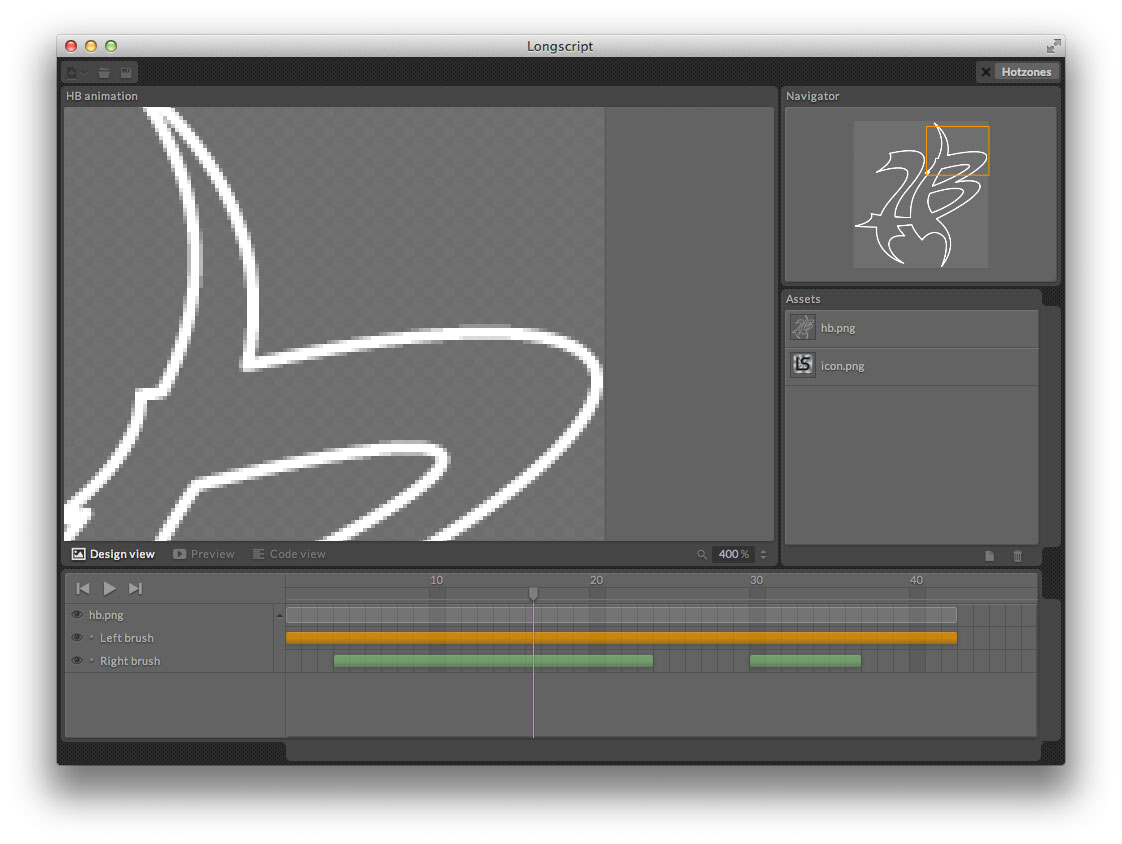
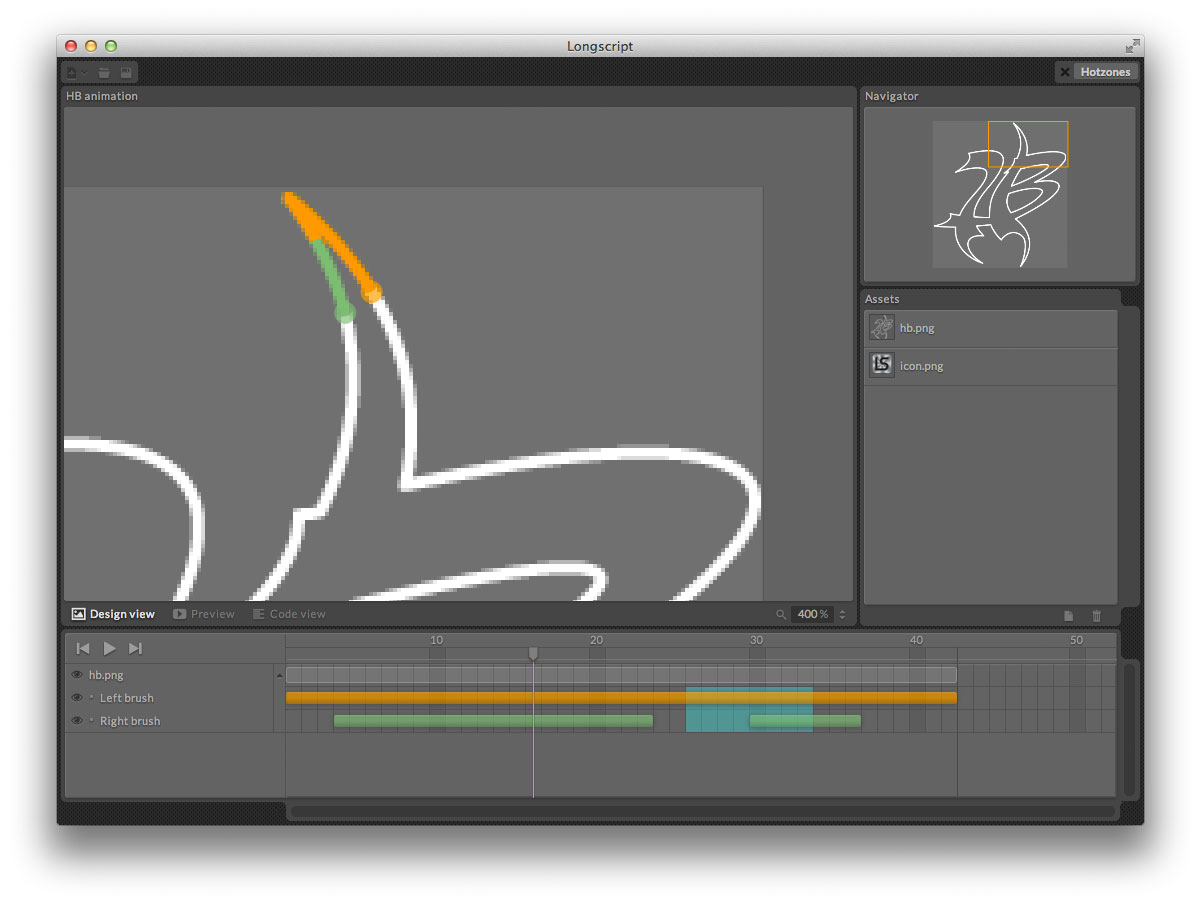
timeline frame selector

Changed region(s): [[0.0312, 0.0308, 0.967, 0.9242]]

diff --git a/public/res/js/app/timeline.js b/public/res/js/app/timeline.js
@@ -15,6 +15,8 @@ sys.app.timeline = {
 		this.doEvent('populate_frame_nrs');
 		//this.speed_events('focus');
 
+		jr(el.tl_content.parentNode).bind('mousedown', this.doEvent);
+
 		jr('.right .body', el.box_timeline).bind('scroll', this.doEvent);
 	},
 	doEvent: function(event) {
@@ -27,7 +29,10 @@ sys.app.timeline = {
 			file = _app.file,
 			self = _app.timeline,
 			cmd  = (typeof(event) === 'string') ? event : event.type,
+			mouseState = self.mouseState,
+			dim,
 			row,
+			srcEl,
 			target,
 			track,
 			i, il,
@@ -35,6 +40,83 @@ sys.app.timeline = {
 			k, kl;
 		switch (cmd) {
 			// native events
+			case 'mousedown':
+				srcEl = event.target;
+				target = _jr(srcEl);
+				dim = getDim(_el.tl_content.parentNode);
+
+				if (target.hasClass('track_parent')) {
+					// track parent
+					self.mouseState = {
+						type: 'ptrack'
+					};
+				} else if (target.hasClass('anim_track')) {
+					// anim track
+					self.mouseState = {
+						type: 'track'
+					};
+				} else if (srcEl.nodeName.toLowerCase() === 'li') {
+					// track row
+					self.mouseState = {
+						type: 'row',
+						clickX: event.clientX,
+						clickY: event.clientY,
+						startX: event.clientX - dim.l,
+						startY: event.clientY - dim.t
+					};
+				} else {
+					// body
+					self.mouseState = {
+						type: 'body'
+					};
+				}
+				if (self.mouseState.type) {
+					self.mouseState.dim = dim;
+					self.mouseState.selEl = _jr(_el.frame_select);
+					_jr(document).bind('mousemove mouseup', self.doEvent);
+				}
+				break;
+			case 'mousemove':
+				if (!mouseState) return;
+				switch (mouseState.type) {
+					case 'ptrack':
+						break;
+					case 'track':
+						break;
+					case 'row':
+						var frHeight = 23,
+							frWidth = 16,
+							top = parseInt(mouseState.startY / frHeight, 10),
+							left = parseInt(mouseState.startX / frWidth, 10),
+
+							wDiff = event.clientX - mouseState.clickX,
+							wMod = wDiff % frWidth,
+							width = parseInt((wDiff - wMod) / frWidth, 10) + 1,
+
+							hDiff = event.clientY - mouseState.clickY,
+							hMod = hDiff % frHeight > 0,
+							height = parseInt(hDiff / frHeight, 10) + (hMod ? 1 : 0);
+
+						if (width < 1) {
+							width = Math.abs(width)+1;
+							left -= width-1;
+						}
+
+						mouseState.selEl.css({
+							'top': (top * frHeight) +'px',
+							'left': (left * frWidth) +'px',
+							'width': ((width * frWidth) - 1) +'px',
+							'height': ((height * frHeight - 1)) +'px'
+						});
+						break;
+					case 'body':
+						break;
+				}
+				break;
+			case 'mouseup':
+				self.mouseState = false;
+				_jr(document).unbind('mousemove mouseup', self.doEvent);
+				break;
 			case 'scroll':
 				target = event.toElement;
 				_el.tl_body_cols.style.left = target.offsetLeft +'px';
@@ -67,6 +149,7 @@ sys.app.timeline = {
 				var xLayer = file.selectNodes('//timeline/layer'),
 					xBrush,
 					xAnim,
+					len = [],
 					lStart,
 					lEnd,
 					bStart = false,
@@ -95,9 +178,10 @@ sys.app.timeline = {
 						}
 						lStart.sortInt();
 						lEnd.sortInt();
+						len.push(lEnd[lEnd.length-1]-lStart[0]);
 						// brush parent
 						xBrush[j].parentNode.setAttribute('start', lStart[0]);
-						xBrush[j].parentNode.setAttribute('length', lEnd[lEnd.length-1]-lStart[0]);
+						xBrush[j].parentNode.setAttribute('length', len[len.length-1]);
 					}
 					// prepare animation tracks
 					for (j=0, jl=xBrush.length; j<jl; j++) {
@@ -116,6 +200,9 @@ sys.app.timeline = {
 						}
 					}
 				}
+				// TODO: set timeline length
+				len.sortInt();
+				xLayer[0].parentNode.setAttribute('length', len[len.length-1]);
 				break;
 			case 'file_loaded':
 				var xTimeline = file.selectSingleNode('.//timeline');

diff --git a/public/res/css/app.less b/public/res/css/app.less
@@ -23,6 +23,8 @@
 @fontFamily:		'regular';
 @fontBold:			'bold';
 
+@frameSelect:		#3ff;
+
 @trackExpand:		400ms;
 
 @import 'fonts.less';
@@ -380,6 +382,18 @@
 		bottom: 19px;
 		right: 19px;
 		border-radius: 5px 5px 0px 5px;
+
+		.frame_select {
+			position: absolute;
+			top: 0px;
+			left: 0px;
+			width: 0px;
+			height: 0px;
+			//border: @frameSelect 1px solid;
+			background: fadeout(@frameSelect, 37%);
+			opacity: .5;
+			z-index: 1;
+		}
 
 		.content_fixed {
 			//background-image: url(../img/bg_tl_body.png);
@@ -769,6 +783,7 @@
 						background-image: -webkit-linear-gradient(top, rgba(255,255,255,0.25) 0%, transparent 15%, transparent 50%, rgba(0,0,0,0.25) 100%);
 						background-color: #54987b;
 						opacity: 0.65;
+						z-index: 2;
 						//-webkit-transition: 150ms opacity ease-in-out;
 
 						&.color_purple { background-color: #bb7ebc; }

diff --git a/public/res/css/app.css b/public/res/css/app.css
@@ -1256,6 +1256,16 @@ figure {
   right: 19px;
   border-radius: 5px 5px 0px 5px;
 }
+.area.timeline .frame_select {
+  position: absolute;
+  top: 0px;
+  left: 0px;
+  width: 0px;
+  height: 0px;
+  background: rgba(51, 255, 255, 0.63);
+  opacity: .5;
+  z-index: 1;
+}
 .area.timeline .content_fixed {
   color: #ababab;
   text-shadow: 0px 1px 2px #333333;
@@ -1587,6 +1597,7 @@ figure {
   background-image: -webkit-linear-gradient(top, rgba(255, 255, 255, 0.25) 0%, transparent 15%, transparent 50%, rgba(0, 0, 0, 0.25) 100%);
   background-color: #54987b;
   opacity: 0.65;
+  z-index: 2;
 }
 .area.timeline .content_fixed.right ul .anim_track.color_purple {
   background-color: #bb7ebc;

diff --git a/public/res/js/app/canvas.js b/public/res/js/app/canvas.js
@@ -211,12 +211,11 @@ sys.app.canvas = {
 
 						arr = JSON.parse(xBrush[j].getAttribute('value'));
 						for (l=0, ll=arr.length; l<ll; l++) {
-							//rMaster[l].push( arr[l] );
+							rMaster[l].push( arr[l] );
 						}
 
 					}
 				}
-				//console.log( rMaster.length );
 				//console.log( JSON.stringify(rMaster) );
 				return rMaster;
 			case 'save_file':

diff --git a/public/index.htm b/public/index.htm
@@ -205,6 +205,7 @@
 					</li>
 					-->
 				</ul>
+				<div class="frame_select" data-el="frame_select"></div>
 			</div>
 			
 		</div>
